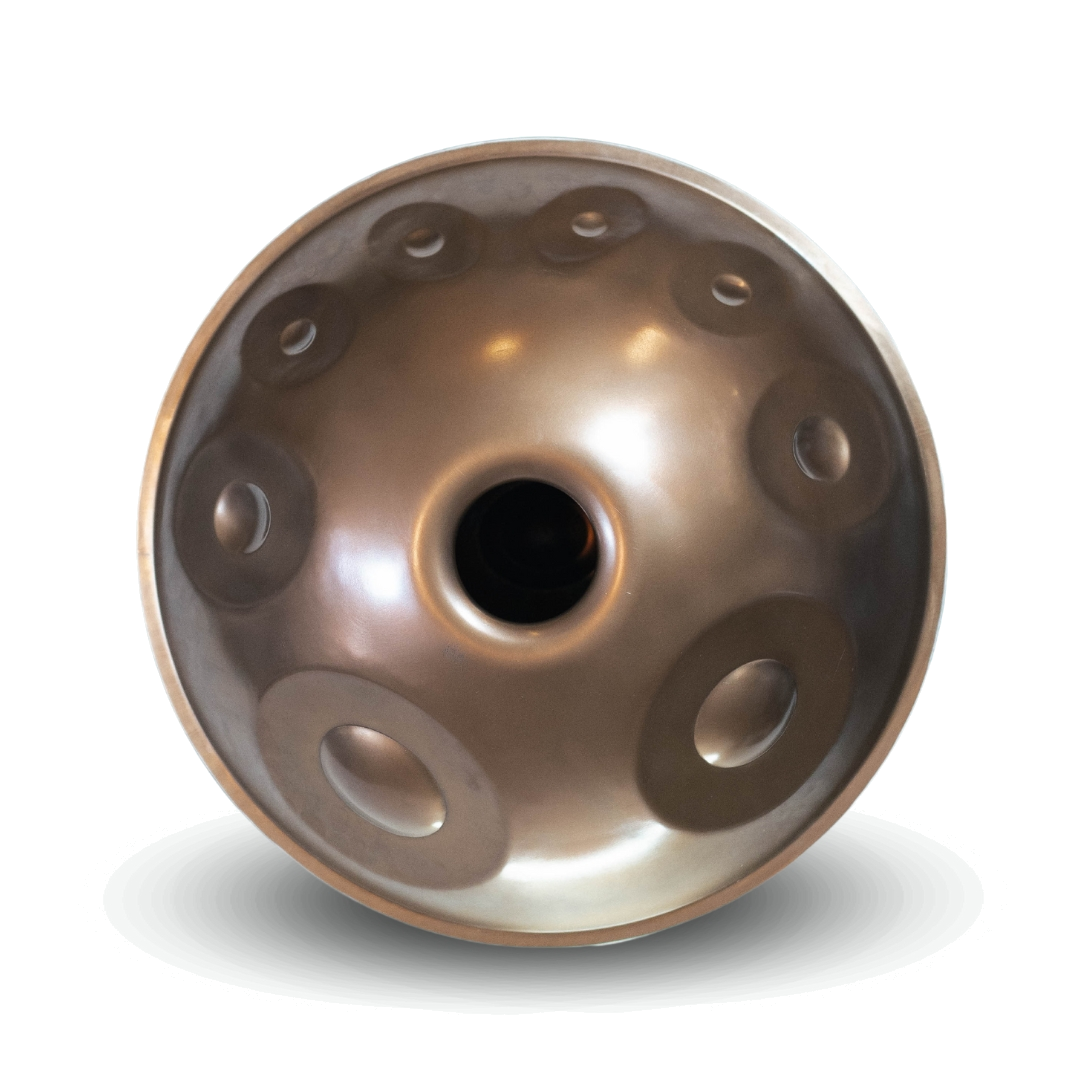
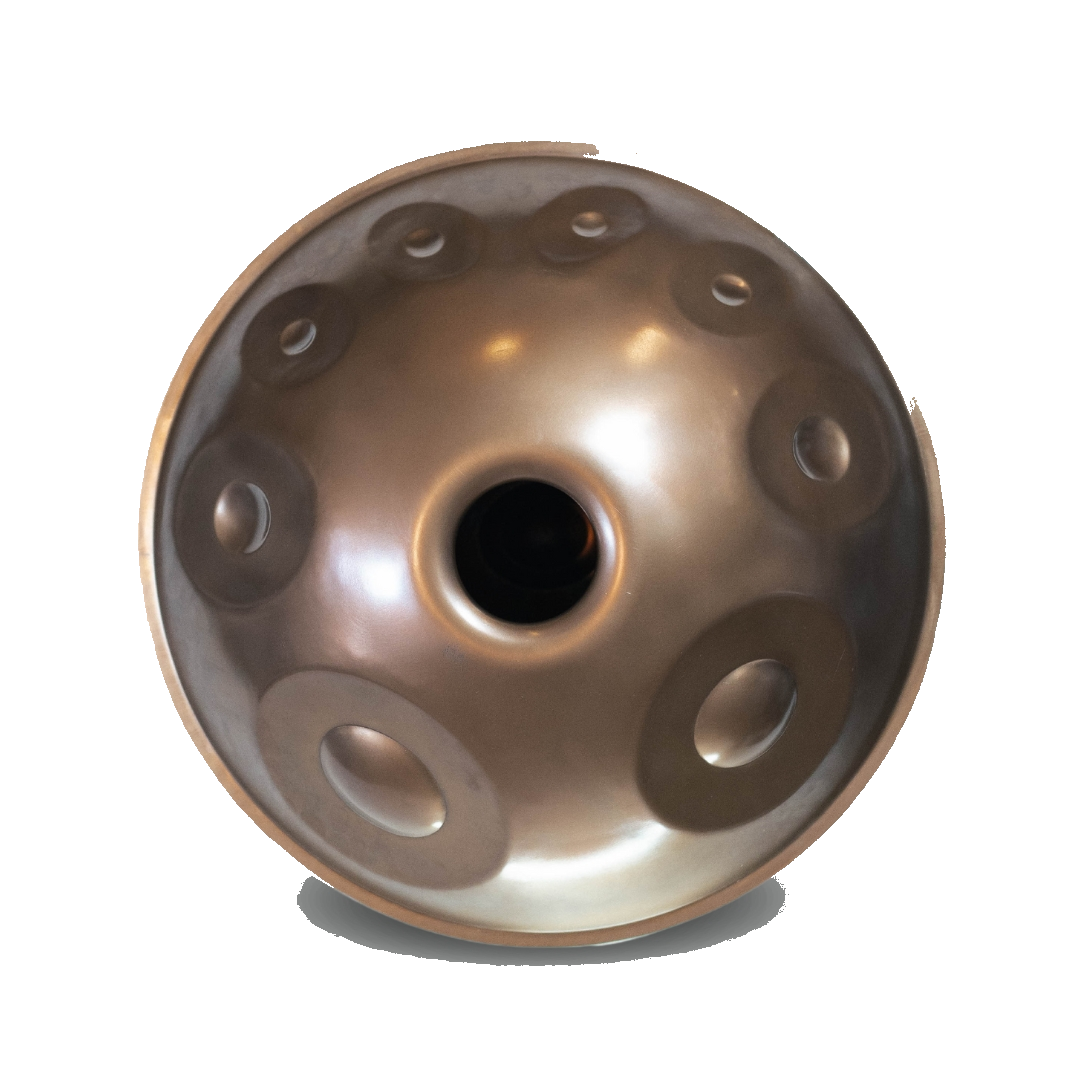
Restore handpan photo brightness: drop multiply, use PNG cutouts.
Multiply was crushing instruments on the dark theme; PNGs use edge and neutral flood only so white studio areas clear without darkening bronze tones.

diff --git a/src/lib/scales/handpan-playground-scales.ts b/src/lib/scales/handpan-playground-scales.ts
@@ -19,14 +19,14 @@ export const HANDPAN_PLAYGROUND_SCALES: HandpanPlaygroundScale[] = [
   {
     id: "d-kurd",
     name: "D Kurd",
-    backgroundImageSrc: "/products/d-kurd-10.jpg",
+    backgroundImageSrc: "/products/d-kurd-10.png",
     ding: "D3",
     fields: ["A3", "Bb3", "C4", "D4", "E4", "F4", "G4", "A4"],
   },
   {
     id: "c-major",
     name: "C Major",
-    backgroundImageSrc: "/products/d-kurd-12.jpg",
+    backgroundImageSrc: "/products/d-kurd-12.png",
     ding: "C3",
     fields: ["E3", "G3", "C4", "E4", "G4", "C5", "D4"],
   },
@@ -40,28 +40,28 @@ export const HANDPAN_PLAYGROUND_SCALES: HandpanPlaygroundScale[] = [
   {
     id: "b-amara",
     name: "B Amara",
-    backgroundImageSrc: "/products/b-amara-9.jpg",
+    backgroundImageSrc: "/products/b-amara-9.png",
     ding: "B2",
     fields: ["D#3", "F#3", "A3", "B3", "D#4", "F#4", "A4"],
   },
   {
     id: "d-celtic-minor",
     name: "D Celtic minor",
-    backgroundImageSrc: "/products/d-kurd-10.jpg",
+    backgroundImageSrc: "/products/d-kurd-10.png",
     ding: "D3",
     fields: ["A3", "C4", "D4", "E4", "F4", "G4", "A4"],
   },
   {
     id: "f-pygmy",
     name: "F Pygmy",
-    backgroundImageSrc: "/products/f-sharp-pygmy-17.jpg",
+    backgroundImageSrc: "/products/f-sharp-pygmy-17.png",
     ding: "F3",
     fields: ["Ab3", "C4", "Eb4", "F4", "G4", "Ab4", "C5"],
   },
   {
     id: "d-kurd-bottom",
     name: "D Kurd (with bottom)",
-    backgroundImageSrc: "/products/d-kurd-10.jpg",
+    backgroundImageSrc: "/products/d-kurd-10.png",
     ding: "D3",
     fields: ["A3", "Bb3", "C4", "D4", "E4", "F4", "G4", "A4"],
     bottom: ["A2", "C3"],

diff --git a/src/lib/products.ts b/src/lib/products.ts
@@ -38,8 +38,9 @@ export type Product = {
   heroImageUrl: string;
 };
 
-/** Product photography: `public/products/` (white studio JPG; blended via CSS multiply). */
-const PHOTO = (file: string) => `/products/${file}`;
+/** Product photography: `public/products/` (PNG cutout; regenerate via scripts/process-product-pngs.py). */
+const PHOTO = (file: string) =>
+  `/products/${file.replace(/\.jpe?g$/i, ".png")}`;
 
 /** Seed catalog — replace with CMS when wired */
 export const products: Product[] = [

diff --git a/src/app/globals.css b/src/app/globals.css
@@ -169,16 +169,13 @@
     overflow: hidden;
     border-radius: var(--radius);
     border: 1px solid var(--color-border);
-    background: var(--color-background);
-    isolation: isolate;
+    background: transparent;
   }
 
-  /* White studio backdrops + floor disc disappear on the forest background */
   .product-photo {
     object-fit: contain;
     object-position: center;
     padding: 1rem;
-    mix-blend-mode: multiply;
     transition: transform 700ms var(--ease-elements);
   }
 

diff --git a/scripts/process-product-pngs.py b/scripts/process-product-pngs.py
@@ -1,11 +1,5 @@
 #!/usr/bin/env python3
-"""
-Optional: regenerate PNG cutouts from JPGs (edge + neutral flood + halo peel).
-
-The storefront prefers original JPGs with CSS mix-blend-mode: multiply on
-.product-photo so white studio backdrops and floor discs vanish without
-damaging handpan highlights. Run this script only if you need true PNG assets.
-"""
+"""Regenerate product PNGs: edge white flood + neutral gray/white flood only."""
 
 from __future__ import annotations
 
@@ -18,9 +12,6 @@ PRODUCTS_DIR = Path(__file__).resolve().parents[1] / "public" / "products"
 WHITE_EDGE = 245
 MIN_NEUTRAL = 140
 MAX_CHROMA = 38
-HALO_AVG = 188
-HALO_CHROMA = 58
-HALO_ITERATIONS = 5
 
 
 def is_white_edge(r: int, g: int, b: int) -> bool:
@@ -94,28 +85,8 @@ def neutral_flood(img: Image.Image) -> Image.Image:
     return img
 
 
-def peel_halo(img: Image.Image) -> Image.Image:
-    w, h = img.size
-    pixels = img.load()
-    for _ in range(HALO_ITERATIONS):
-        clear: list[tuple[int, int]] = []
-        for y in range(h):
-            for x in range(w):
-                r, g, b, a = pixels[x, y]
-                if a == 0:
-                    continue
-                if not any(pixels[nx, ny][3] == 0 for nx, ny in ((x + 1, y), (x - 1, y), (x, y + 1), (x, y - 1))):
-                    continue
-                avg = (r + g + b) / 3
-                if avg > HALO_AVG and max(r, g, b) - min(r, g, b) < HALO_CHROMA:
-                    clear.append((x, y))
-        for x, y in clear:
-            pixels[x, y] = (0, 0, 0, 0)
-    return img
-
-
 def process(src: Path) -> Image.Image:
-    return peel_halo(neutral_flood(edge_flood(Image.open(src))))
+    return neutral_flood(edge_flood(Image.open(src)))
 
 
 def main() -> None:
